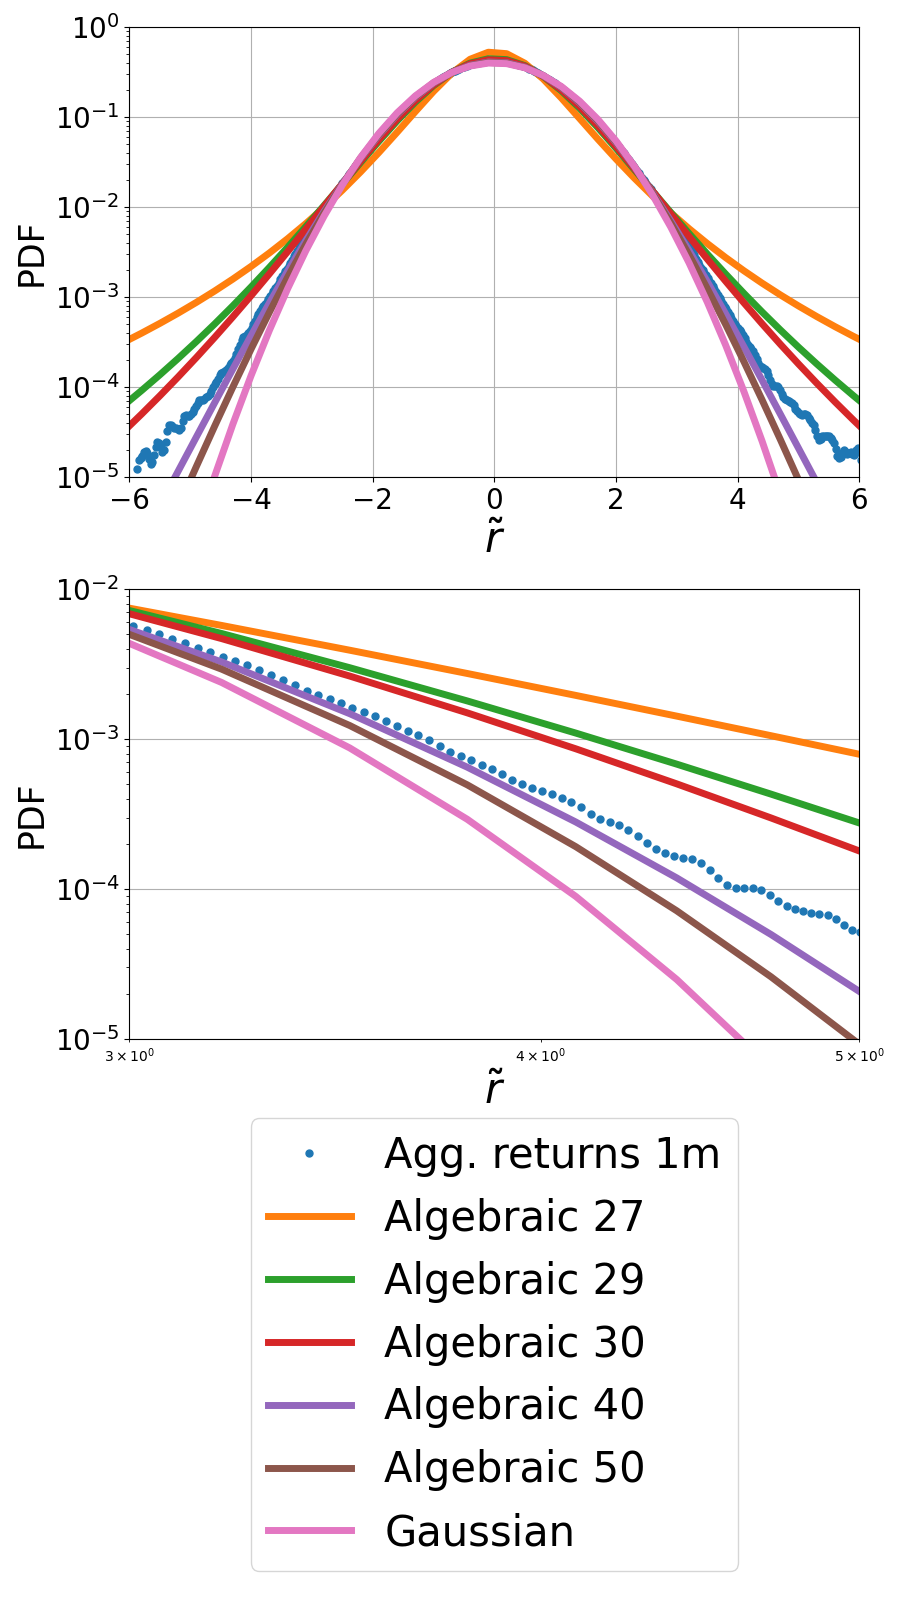
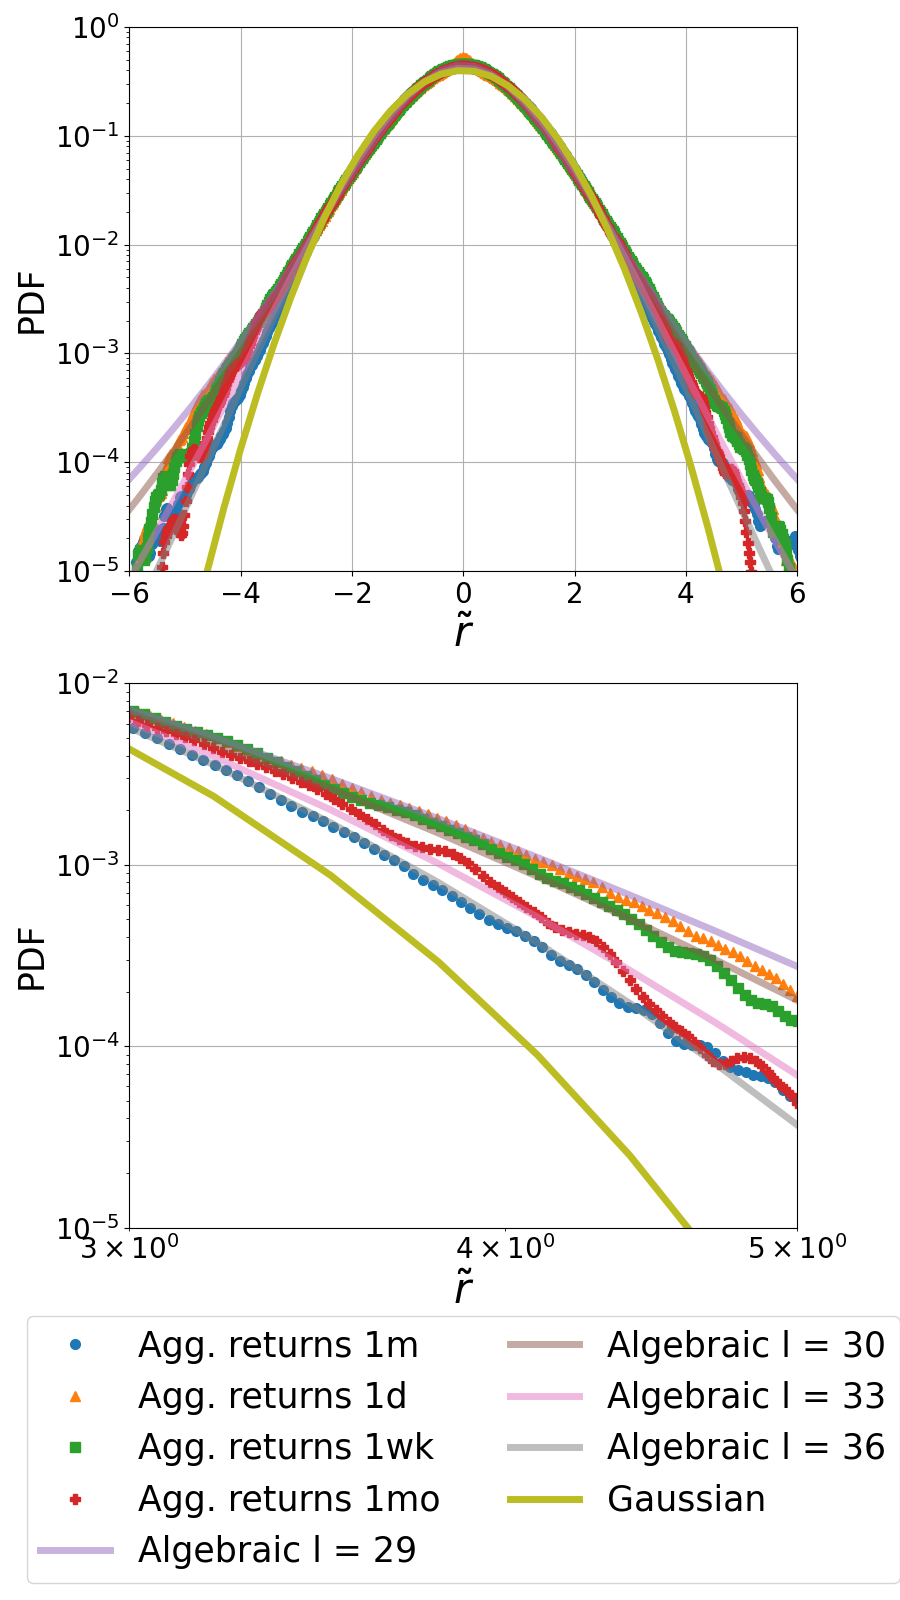
Find values for the shape parameter l

diff --git a/paper/algorithms/03_agg_returns_epoch.py b/paper/algorithms/03_agg_returns_epoch.py
@@ -141,38 +141,37 @@ def epochs_algebraic_agg_dist_returns_market_plot(dates: List[List[str]],
 
             # Log plot
             plot_1 = agg.plot(kind='density', style=marker, logy=True, ax=ax1,
-                              legend=False, ms=5)
+                              legend=False, ms=7)
             plot_2 = agg.plot(kind='density', style=marker, loglog=True,
-                              ax=ax2, legend=False, ms=5)
+                              ax=ax2, legend=False, ms=7)
 
         x_values: np.ndarray = np.arange(-10, 10, 0.3)
 
         for l_value in l_values:
             algebraic: np.ndarray = epochs_tools \
                 .algebraic_distribution(int(K_value), l_value, x_values)
-            ax1.semilogy(x_values, algebraic, '-', lw=5, label=f'Algebraic {l_value}')
-            ax2.loglog(x_values, algebraic, '-', lw=5, label=f'Algebraic {l_value}')
-
+            ax1.semilogy(x_values, algebraic, '-', lw=5, alpha=0.5,
+                         label=f'Algebraic l = {l_value}')
+            ax2.loglog(x_values, algebraic, '-', lw=5, alpha=0.5,
+                       label=f'Algebraic l = {l_value}')
 
         gaussian: np.ndarray = epochs_tools \
             .gaussian_distribution(0, 1, x_values)
         ax1.semilogy(x_values, gaussian, '-', lw=5, label=f'Gaussian')
         ax2.loglog(x_values, gaussian, '-', lw=5, label=f'Gaussian')
 
-        ax1.set_xlabel(r'$\tilde{r}$', fontsize=30)
-        ax1.set_ylabel('PDF', fontsize=25)
-        ax1.tick_params(axis='both', labelsize=20)
+        ax1.set_xlabel(r'$\tilde{r}$', fontsize=20)
+        ax1.set_ylabel('PDF', fontsize=20)
+        ax1.tick_params(axis='both', labelsize=15)
         ax1.set_xlim(-6, 6)
         ax1.set_ylim(10 ** -5, 1)
         ax1.grid(True)
 
-        ax2.legend(loc='upper center', bbox_to_anchor=(0.5, -0.13), ncol=1,
-                   fontsize=30)
-        # ax2.legend(loc='upper center', bbox_to_anchor=(0.5, -0.09), ncol=2,
-        #        fontsize=20)
-        ax2.set_xlabel(r'$\tilde{r}$', fontsize=30)
-        ax2.set_ylabel('PDF', fontsize=25)
-        ax2.tick_params(axis='both', labelsize=20)
+        ax2.legend(loc='upper center', bbox_to_anchor=(0.5, -0.13), ncol=2,
+                   fontsize=20)
+        ax2.set_xlabel(r'$\tilde{r}$', fontsize=20)
+        ax2.set_ylabel('PDF', fontsize=20)
+        ax2.tick_params(axis='both', which='both', labelsize=15)
         ax2.set_xlim(3, 5)
         ax2.set_ylim(10 ** -5, 10 ** -2)
         ax2.grid(True)
@@ -206,15 +205,15 @@ def main() -> None:
     """
 
     dates: List[List[str]] = [['2021-07-19', '2021-08-14'],
-                              ['2021-06-01', '2021-07-31'],
                               ['1990-01-01', '2020-12-31'],
                               ['1990-01-01', '2020-12-31'],
                               ['1990-01-01', '2020-12-31']]
-    time_steps: List[List[str]] = ['1m']#, '1h', '1d', '1wk', '1mo']
+    time_steps: List[str] = ['1m', '1d', '1wk', '1mo']
 
     # epochs_gaussian_agg_dist_returns_market_plot(dates, time_steps, '25', '50')
-    epochs_algebraic_agg_dist_returns_market_plot(dates, time_steps, '55', '50',
-     [30, 31, 32, 33, 34, 35, 36, 37, 38, 39, 40])
+    epochs_algebraic_agg_dist_returns_market_plot(dates, time_steps,
+                                                  '55', '50',
+                                                  [29, 30, 33, 36])
 
 # -----------------------------------------------------------------------------
 
